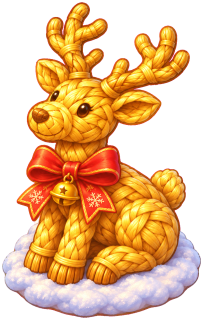
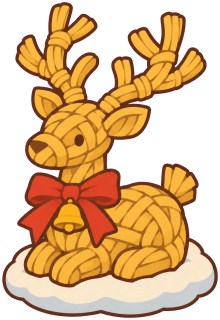
Marché de Noël : décorations redessinées dans le style du jeu, et cinq nouvelles
Choix du propriétaire (7 novembre 2026) : les décorations « faisaient trop IA ».
Elles sont repeintes comme le sapin « mélange 3 » : contour brun net, ombres en
aplats, couleurs mates, sans éclats de lumière.

- Les huit décorations existantes sont repeintes à l'identique de composition.
- Cinq nouvelles : chocolat chaud géant (40), stand de raclette (90) et stand de
  bijoux et souvenirs (90), purement décoratifs, château de neige (200, 4 × 4,
  dessin original) et mini igloo à oreilles de lapin (75).
- Lumières de nuit recalculées ; le renne, la pile de cadeaux et la luge n'en
  ont plus, leur jaune mat s'allumait en entier.
- scripts/prepare-noel-art.mjs : image plus grande pour le château.

diff --git a/src/config/decorations.ts b/src/config/decorations.ts
@@ -7,7 +7,9 @@ export const DECORATION_IDS = ['dirt-path', 'bush', 'tree', 'hay-bale', 'bunny-s
  * the event is on (`buyChristmasDecoration`); never in the decoration shop above, never for pattes or Hearts, no level needed,
  * no XP and no « Installer » mission. Once bought they stay owned and placeable after the event, and are never resold.
  */
-export const CHRISTMAS_DECORATION_IDS = ['christmas-tree', 'gift-pile', 'candy-cane', 'lantern-post', 'wreath-arch', 'sled', 'reindeer', 'snow-globe'] as const;
+export const CHRISTMAS_DECORATION_IDS = ['christmas-tree', 'gift-pile', 'candy-cane', 'lantern-post', 'wreath-arch', 'sled', 'reindeer', 'snow-globe',
+  // Five more, chosen by the owner on 7 November 2026 (the two stands are decoration only: nothing is sold there).
+  'hot-chocolate', 'raclette-stand', 'souvenir-stand', 'snow-castle', 'mini-igloo'] as const;
 /** Every decoration a save may hold: the shop's and the Christmas market's. */
 export const ALL_DECORATION_IDS = [...DECORATION_IDS, ...CHRISTMAS_DECORATION_IDS] as const;
 export type ShopDecorationId = typeof DECORATION_IDS[number];
@@ -46,7 +48,7 @@ export const DECORATIONS: Record<DecorationId, DecorationDefinition> = {
   'vintage-microscope': {name: 'Vaccin contre la tuberculose', price: 3500, area: 'outside', width: 2, height: 1, rotates: false, level: 15, art: {file: 'assets/decorations/vintage-microscope.png', worldWidth: 78, anchor: {x: .5, y: .93}}},
   'game-console': {name: 'Nintendo Switch et télévision', price: 5000, area: 'outside', width: 2, height: 1, rotates: false, level: 16, art: {file: 'assets/decorations/game-console.png', worldWidth: 130, anchor: {x: .5, y: .93}}},
   'chocolate-cake': {name: 'Gâteau chocolat « je t’aime »', price: 150, area: 'outside', width: 2, height: 2, rotates: false, level: 5, art: {file: 'assets/decorations/chocolate-cake.png', worldWidth: 80, anchor: {x: .5, y: .93}}},
-  // The Christmas market (art to be painted: assets/noel/decorations/<id>.png, not shipped yet).
+  // The Christmas market (art: assets/noel/decorations/<id>.png, repainted in the game's plainer style on 7 November 2026).
   'christmas-tree': {name: 'Sapin de Noël', price: 0, candyPrice: 120, christmas: true, area: 'outside', width: 2, height: 2, rotates: false, level: 1, art: {file: 'assets/noel/decorations/christmas-tree.png', worldWidth: 130, anchor: {x: .5, y: .95}}},
   'gift-pile': {name: 'Pile de cadeaux', price: 0, candyPrice: 40, christmas: true, area: 'outside', width: 1, height: 1, rotates: false, level: 1, art: {file: 'assets/noel/decorations/gift-pile.png', worldWidth: 46, anchor: {x: .5, y: .88}}},
   'candy-cane': {name: 'Sucre d’orge géant', price: 0, candyPrice: 30, christmas: true, area: 'outside', width: 1, height: 1, rotates: false, level: 1, art: {file: 'assets/noel/decorations/candy-cane.png', worldWidth: 40, anchor: {x: .5, y: .93}}},
@@ -55,6 +57,11 @@ export const DECORATIONS: Record<DecorationId, DecorationDefinition> = {
   'sled': {name: 'Petit traîneau', price: 0, candyPrice: 70, christmas: true, area: 'outside', width: 2, height: 1, rotates: false, level: 1, art: {file: 'assets/noel/decorations/sled.png', worldWidth: 88, anchor: {x: .5, y: .88}}},
   'reindeer': {name: 'Renne en paille', price: 0, candyPrice: 100, christmas: true, area: 'outside', width: 2, height: 2, rotates: false, level: 1, art: {file: 'assets/noel/decorations/reindeer.png', worldWidth: 95, anchor: {x: .5, y: .93}}},
   'snow-globe': {name: 'Boule à neige géante', price: 0, candyPrice: 60, christmas: true, area: 'outside', width: 1, height: 1, rotates: false, level: 1, art: {file: 'assets/noel/decorations/snow-globe.png', worldWidth: 46, anchor: {x: .5, y: .92}}},
+  'hot-chocolate': {name: 'Chocolat chaud géant', price: 0, candyPrice: 40, christmas: true, area: 'outside', width: 1, height: 1, rotates: false, level: 1, art: {file: 'assets/noel/decorations/hot-chocolate.png', worldWidth: 58, anchor: {x: .5, y: .92}}},
+  'raclette-stand': {name: 'Stand de raclette', price: 0, candyPrice: 90, christmas: true, area: 'outside', width: 2, height: 2, rotates: false, level: 1, art: {file: 'assets/noel/decorations/raclette-stand.png', worldWidth: 100, anchor: {x: .5, y: .92}}},
+  'souvenir-stand': {name: 'Stand de bijoux et souvenirs', price: 0, candyPrice: 90, christmas: true, area: 'outside', width: 2, height: 2, rotates: false, level: 1, art: {file: 'assets/noel/decorations/souvenir-stand.png', worldWidth: 90, anchor: {x: .5, y: .92}}},
+  'snow-castle': {name: 'Château de neige', price: 0, candyPrice: 200, christmas: true, area: 'outside', width: 4, height: 4, rotates: false, level: 1, art: {file: 'assets/noel/decorations/snow-castle.png', worldWidth: 240, anchor: {x: .5, y: .92}}},
+  'mini-igloo': {name: 'Mini igloo', price: 0, candyPrice: 75, christmas: true, area: 'outside', width: 2, height: 2, rotates: false, level: 1, art: {file: 'assets/noel/decorations/mini-igloo.png', worldWidth: 112, anchor: {x: .5, y: .9}}},
 };
 export const FINE_GRID = 4;
 /** A generous bound keeps imports and low-end devices bounded; never discards owned objects. */

diff --git a/src/config/nightLights.ts b/src/config/nightLights.ts
@@ -11,7 +11,7 @@ export const NIGHT_GLOW_DEPTH = 2.87;
 /** How strong the windows glow at full night. */
 export const NIGHT_GLOW_STRENGTH = .9;
 /** The decorations that light the snow around them, and how wide that pool is (share of the picture's width). */
-export const LIGHT_POOLS: Readonly<Record<string, number>> = {'lantern-post': 2.4, 'christmas-tree': 1.5, 'wreath-arch': 1.1, 'snow-globe': 1.2};
+export const LIGHT_POOLS: Readonly<Record<string, number>> = {'lantern-post': 2.4, 'christmas-tree': 1.5, 'wreath-arch': 1.1, 'snow-globe': 1.2, 'souvenir-stand': 1.1, 'raclette-stand': 1, 'mini-igloo': 1, 'snow-castle': .9};
 
 /** The glow picture of a served picture, from its URL (only the snowy pictures under assets/noel/ have one). */
 export function nightGlowOf(url: string | undefined): {texture: string; url: string} | null {
